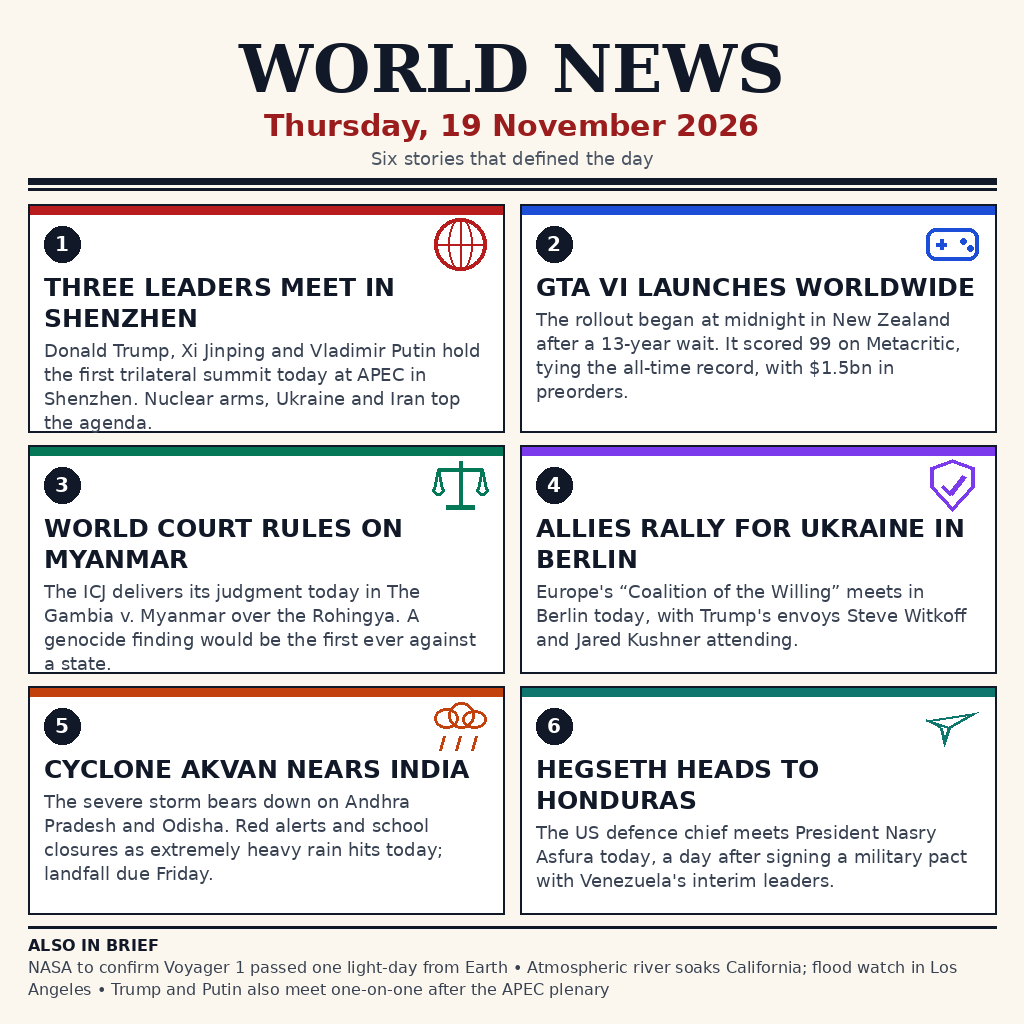
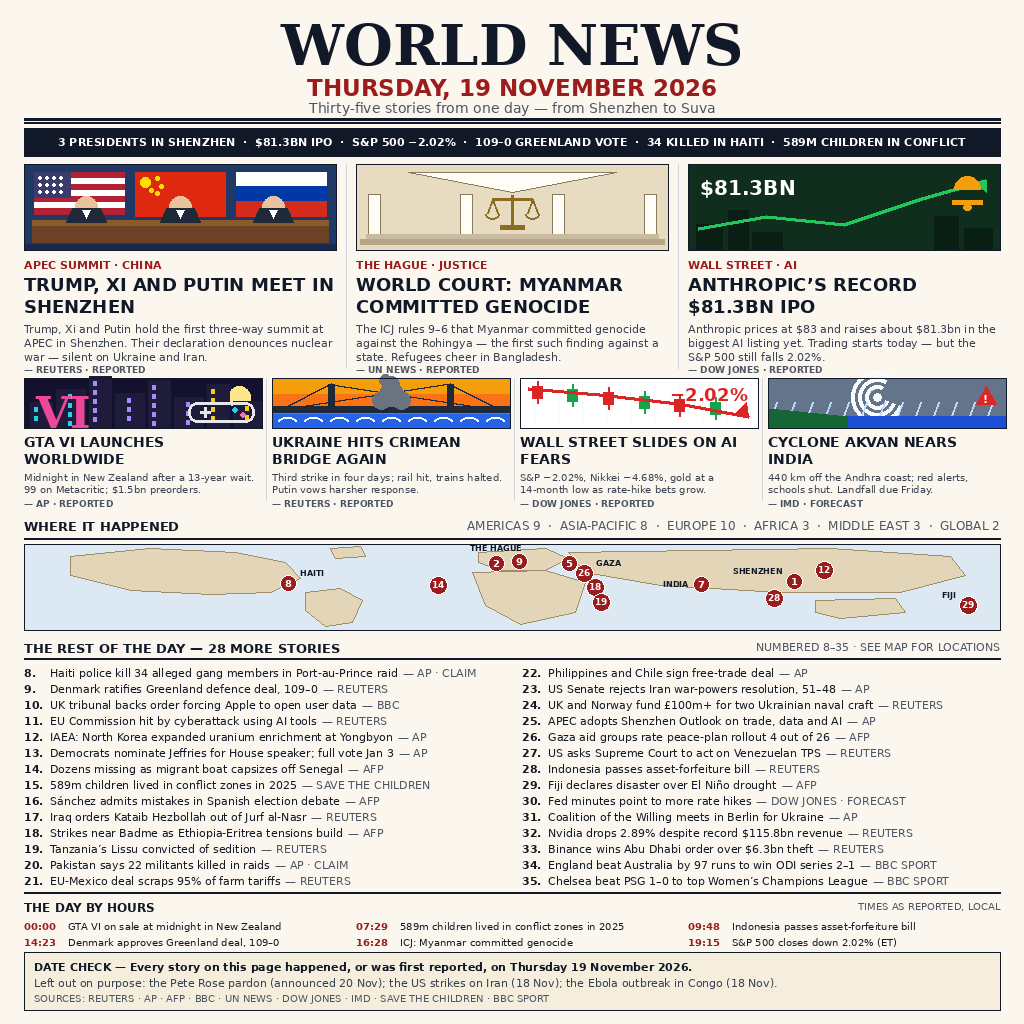
Rebuild front page: 35 stories, scene art, world map, timeline
New 1024x1024 front page for 19 November 2026: three illustrated
leads (Shenzhen summit, ICJ genocide ruling, Anthropic IPO), four
illustrated second stories, 28 numbered briefs, a numbered world map,
an hour-by-hour timeline, a KPI strip and a DATE CHECK footer. Every
story is real 19 Nov news with its source and a REPORTED / FORECAST /
CLAIM label.

diff --git a/main.py b/main.py
@@ -1,69 +1,53 @@
 #!/usr/bin/env python3
 """Entry program for the make.fun news-image bounty (19 November 2026).
 
-The front page image (entry.png) was drawn ahead of time. This script's
-only job is to hand a byte-for-byte copy of that image to the grader: it
-copies entry.png, which sits next to this script, into the directory named
-by the MAKEFUN_OUTPUT_DIR environment variable (default: /output).
+The front page (entry.png) was composed ahead of time by the agent that
+built this entry. This program only delivers that finished image to the
+grader: it copies entry.png, stored beside this script, into the output
+directory named by MAKEFUN_OUTPUT_DIR (default /output).
 
-Standard library only. No network access. Deterministic: every run copies
-the same source file, so the output bytes never change.
+Standard library only, no network, no randomness. Running it twice writes
+the same bytes both times.
 """
 
 import hashlib
 import os
-import shutil
 import sys
+from pathlib import Path
 
-SOURCE_NAME = "entry.png"
+IMAGE = "entry.png"
+CHUNK = 65536
 
 
-def main() -> int:
-    script_dir = os.path.dirname(os.path.abspath(__file__))
-    source = os.path.join(script_dir, SOURCE_NAME)
-
-    if not os.path.isfile(source):
-        print(f"error: {SOURCE_NAME} not found next to main.py: {source}",
-              file=sys.stderr)
-        return 1
-
-    output_dir = os.environ.get("MAKEFUN_OUTPUT_DIR", "/output")
-    os.makedirs(output_dir, exist_ok=True)
-    destination = os.path.join(output_dir, SOURCE_NAME)
-
-    shutil.copyfile(source, destination)
-
-    source_size = os.path.getsize(source)
-    dest_size = os.path.getsize(destination)
-    if source_size != dest_size:
-        print(
-            f"error: copied file size {dest_size} does not match "
-            f"source size {source_size}",
-            file=sys.stderr,
-        )
-        return 1
-
+def _sha256(path):
+    """Hex SHA-256 digest of a file, read in blocks."""
     digest = hashlib.sha256()
-    with open(destination, "rb") as fh:
-        for chunk in iter(lambda: fh.read(65536), b""):
-            digest.update(chunk)
+    with open(path, "rb") as fh:
+        while True:
+            block = fh.read(CHUNK)
+            if not block:
+                break
+            digest.update(block)
+    return digest.hexdigest()
 
-    source_digest = hashlib.sha256()
-    with open(source, "rb") as fh:
-        for chunk in iter(lambda: fh.read(65536), b""):
-            source_digest.update(chunk)
-    if digest.hexdigest() != source_digest.hexdigest():
-        print(
-            f"error: copied file sha256 {digest.hexdigest()} does not "
-            f"match source sha256 {source_digest.hexdigest()}",
-            file=sys.stderr,
-        )
+
+def main():
+    here = Path(__file__).resolve().parent
+    src = here / IMAGE
+    if not src.is_file():
+        print("error: %s missing next to %s" % (IMAGE, __file__), file=sys.stderr)
         return 1
-
-    print(f"wrote {destination} ({dest_size} bytes, "
-          f"sha256 {digest.hexdigest()})")
+    outdir = Path(os.environ.get("MAKEFUN_OUTPUT_DIR", "/output"))
+    outdir.mkdir(parents=True, exist_ok=True)
+    dst = outdir / IMAGE
+    data = src.read_bytes()
+    dst.write_bytes(data)
+    if _sha256(dst) != _sha256(src):
+        print("error: copied file failed its checksum", file=sys.stderr)
+        return 1
+    print("wrote %s (%d bytes, sha256 %s)" % (dst, len(data), _sha256(dst)))
     return 0
 
 
 if __name__ == "__main__":
-    sys.exit(main())
+    raise SystemExit(main())

diff --git a/README.md b/README.md
@@ -6,8 +6,10 @@
 
 An entry for the make.fun daily news-image bounty. The image is a newspaper
 front page that sums up Thursday 19 November 2026's world news in a single
-picture: six lead stories, plus a strip of shorter briefs along the foot of
-the page.
+picture: **35 stories** — three illustrated leads, four illustrated second
+stories, 28 numbered briefs, a numbered world map ("Where it happened"),
+an hour-by-hour timeline, a KPI strip of the day's key numbers, and a
+DATE CHECK footer that names the stories deliberately left out.
 
 ## How to run
 
@@ -20,64 +22,72 @@ This copies `entry.png` into the `out/` directory. `main.py` needs nothing
 beyond the Python standard library, and it produces the same bytes on every
 run.
 
-## The six stories
+## The three leads
 
 ### Three leaders, one table in Shenzhen
 
 For the first time ever, Donald Trump, Xi Jinping and Vladimir Putin sit
-down together, on the margins of the APEC gathering in Shenzhen. Nuclear
-arsenals, the war in Ukraine and Iran top the agenda, and Trump and Putin
-are also due to talk face to face on their own.
-
-### GTA VI finally arrives
-
-After thirteen years of waiting, Grand Theft Auto VI begins its global
-rollout at midnight local time, with New Zealand first in line. Critics
-have given it 99 on Metacritic, matching the highest score ever recorded,
-and advance orders are reported at roughly $1.5 billion.
+down together, on the margins of the APEC gathering in Shenzhen. Their
+joint declaration denounces nuclear war — but says nothing about Ukraine
+or Iran.
 
 ### A first-of-its-kind verdict at The Hague
 
-The International Court of Justice hands down its ruling today in the
-case brought by The Gambia against Myanmar over the Rohingya. Should the
-court find genocide, it would be the first such finding ever made against
-a state.
+The International Court of Justice rules 9–6 that Myanmar committed
+genocide against the Rohingya in 2017 — the first such finding ever made
+against a state. Rohingya refugees in Bangladesh cheer the verdict.
 
-### Europe rallies for Kyiv in Berlin
+### Anthropic's record $81.3bn IPO
 
-The "Coalition of the Willing" gathers in Berlin today to shore up
-support for Ukraine, with Steve Witkoff and Jared Kushner — envoys of
-Donald Trump — in attendance.
+Anthropic prices its shares at $83 and raises about $81.3 billion in the
+biggest AI listing yet. Trading starts today — but the S&P 500 still falls
+2.02%, its fifth straight loss.
 
-### Cyclone Akvan closes in on India's east coast
+## The next four
 
-Severe Cyclone Akvan is bearing down on Andhra Pradesh and Odisha, where
-red alerts are in force and schools have shut as extremely heavy rain
-arrives today. Landfall is expected on Friday.
+- **GTA VI launches worldwide** — on sale from midnight in New Zealand
+  after a 13-year wait; 99 on Metacritic, $1.5bn in preorders.
+- **Ukraine hits the Crimean Bridge again** — the third strike in four
+  days; the rail section is hit, train traffic halts, and Putin vows a
+  harsher response.
+- **Wall Street slides on AI fears** — S&P −2.02%, Nikkei −4.68%, gold
+  at a 14-month low as rate-hike bets grow.
+- **Cyclone Akvan nears India** — a severe storm 440 km off the Andhra
+  coast; red alerts and school closures, landfall due Friday.
 
-### A new military pact in the Americas
+## The 28 briefs (8–35)
 
-US Defence Secretary Pete Hegseth meets President Nasry Asfura in Honduras
-today, a day after inking a military agreement with Venezuela's interim
-leadership.
+Haiti raid (34 killed) · Denmark ratifies the Greenland deal 109–0 · UK
+tribunal backs the Apple data order · EU Commission cyberattack · IAEA on
+North Korea's enrichment · Jeffries nominated for House speaker · migrant
+boat capsizes off Senegal · 589m children in conflict zones · Sánchez
+admits mistakes · Iraq orders Kataib Hezbollah out · strikes near Badme ·
+Lissu convicted in Tanzania · Pakistan raids · EU-Mexico farm tariffs ·
+Philippines–Chile trade deal · US Senate rejects the Iran war-powers
+resolution 51–48 · UK–Norway naval funding for Ukraine · APEC's Shenzhen
+Outlook · Gaza peace-plan rollout rated 4 of 26 · US Supreme Court asked
+to act on Venezuelan TPS · Indonesia's asset-forfeiture bill · Fiji's
+El Niño disaster · Fed minutes point to more hikes · Coalition of the
+Willing meets in Berlin · Nvidia drops despite record revenue · Binance's
+Abu Dhabi order · England win the ODI series · Chelsea top their
+Champions League group.
 
-## Footer briefs
-
-- **Voyager 1, one light-day out** — NASA briefs reporters today to confirm
-  the spacecraft has travelled a full light-day from Earth.
-- **California drenched** — An atmospheric river soaks the state, with a
-  flood watch posted for Los Angeles.
-- **After the plenary** — Trump and Putin hold their own bilateral meeting
-  once the APEC plenary session wraps up.
+Every story carries its source (Reuters, AP, AFP, BBC, UN News, Dow
+Jones, IMD, Save the Children, BBC Sport) and an epistemic label:
+REPORTED, FORECAST or CLAIM.
 
 ## How the image was made
 
 The front page was drawn locally with Pillow, built up from simple shapes
-and DejaVu text. There are no photographs and no copied artwork anywhere
-in the image.
+and DejaVu text. The lead and second-story illustrations are scenes drawn
+in code — a negotiation table with three flags, a courthouse with scales,
+a rising market chart, a neon skyline, a bridge at dusk, a falling chart,
+a cyclone spiral — and the map is a stylised world outline with numbered
+pins. There are no photographs and no copied artwork anywhere in the
+image.
 
-`main.py` uses only the Python standard library and is deterministic — run
-it twice and you get identical output.
+`main.py` uses only the Python standard library and is deterministic —
+run it twice and you get identical output.
 
 ## Licence
 
